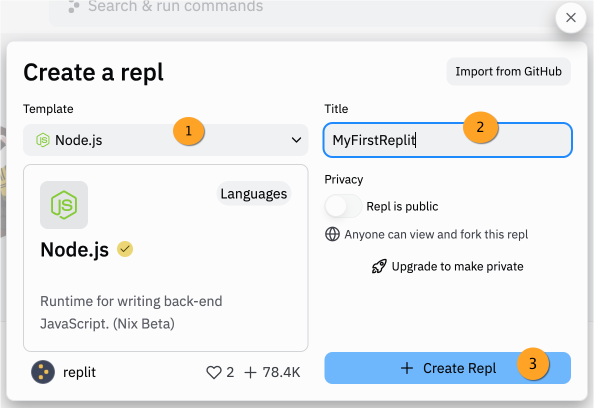
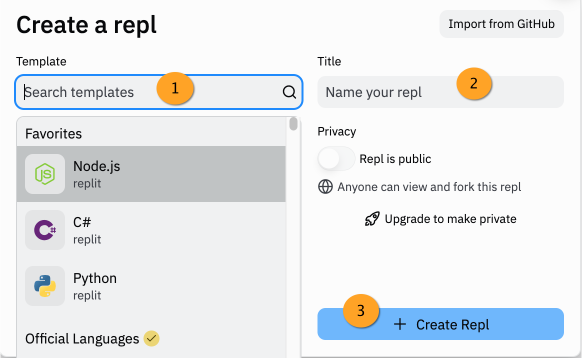
repl intro update

diff --git a/src/chapters/how-programs-work/hello-world.rst b/src/chapters/how-programs-work/hello-world.rst
@@ -15,6 +15,14 @@ single message is one of the simplest tasks a program can carry out.
 
 ``Hello, World`` will be your first program as well. Welcome to the club!
 
+
+.. admonition:: Note
+
+   Below is a guide to walk you through setting up a Replit account, 
+   creating a new repl, and working with repls made by other people.  
+   The images are there to help guide you, but Replit.com may update or change 
+   how it looks.  Don't hesitate to explore the site on your own.
+
 Create a Replit Account
 ------------------------
 
@@ -23,36 +31,34 @@ practice problems, exercises, studios, and assignments. If you have not already
 done so, create a new account with `Replit.com <https://repl.it/signup>`__. The
 site provides a free space to practice coding.
 
+
+After you have created your account, sign in.  
+You will see your **dashboard**, which displays any saved folders or projects. 
+Since you are just starting out, your dashboard will be empty.
+
 .. admonition:: Note
+  
+   If your dashboard is completely empty, click on the "Hamburger" button in the top left corner.
+   The three stacked horizontal lines.  
+   This will reveal a drop-down menu that allows you to create new repls, access your saved repls, etc.
 
-   Since the last updates to this text, the Replit.com website might have changed.  
-   The overall functionality should be the same, despite any changes in locations of buttons or menus.  
-
-.. figure:: figures/replit-sign-up.png
-   :alt: Replit sign-up screen
-
-After you sign in, you will see your *dashboard*, which displays any saved
-folders or projects. Since you are just starting out, your dashboard will be
-empty.
-
-.. figure:: figures/dashboard-replit.png
-   :alt: Replit dashboard
-
-Click on *+ Create* or any of the *+* buttons to begin a new project by using the "Create a repl" window.
- 
-
+Creating a New Repl
+^^^^^^^^^^^^^^^^^^^
+From your dashboard, click on *+ Create* or any of the *+* buttons to open the "Create a repl" window.
 
 .. figure:: figures/create-repl.png
    :alt: Replit new repl
 
-To Create a New Repl:
+Steps to create a new repl:
 
-#. You need to **select the coding language** you want to work with.  
-   Since this textbook teaches JavaScript, select "Node.js".
+#. You need to **select the coding language template** you want to work with.  
+   Select "Node.js" to code in JavaScript.   
 
-#. **Name your project** if a name has not already been provided.
+#. **Name your project** to help you remember what the repl contains. 
 
 #. **Click** "Create Repl".  
+
+These steps will create a blank repl workspace where you can start programming in JavaScript.
 
 The Replit Workspace
 ^^^^^^^^^^^^^^^^^^^^^
@@ -61,12 +67,12 @@ Before you dive into your ``Hello, World!`` program, let's take a look at how
 to use Replit. The workspace consists of three main panels and several menu
 functions.
 
-.. figure:: figures/replit-workspace.png
+.. figure:: figures/repl-workspace.png
    :alt: Replit code editor layout
 
 Features to note:
 
-#. **File panel and menus**: Allows you to add extensions, update settings, and
+#. **File panel and menus**: This allows you to add extensions, update settings, and
    add, open, or delete files.
 
 #. **Editor panel**: Your code goes here. Click on a file to open it in the
@@ -89,22 +95,26 @@ Features to note:
 Begin Your Coding Journey
 -------------------------
 
-Follow this `Hello World link <https://repl.it/@launchcode/HelloWorldJS>`__ to
-open a prepared workspace for your first program.
-
-This is a prepared repl.  You will not be allowed to code into it since you did not create it.
-In order to add your own code, you will need your own copy of this repl by **forking** it.
-A fork creates a copy in your repl account where you can add your own code without any risk of changing the original codebase.
+Working with a Prepared Repl
+^^^^^^^^^^^^^^^^^^^^^^^^^^^^
+We have prepared a repl for you.  
+You will not be allowed to code into it since you did not create it.
+To add your own code, you will need to **fork** it.
+Forking creates a copy of the original codebase into your repl account.  
+You can code in the forked project without risk of changing the original codebase.
 
 .. figure:: figures/fork-replit.png
    :alt: Replit fork option
 
+Follow this `Hello World link <https://repl.it/@launchcode/HelloWorldJS>`__ to
+open a prepared workspace for your first program.
 
-On line 2 of the editor, type:
+Your forked copy will open in your workspace. 
+On line 2 of the editor panel, type:
 
    ``console.log("Hello, World!");``
 
-When you finish typing, click the green "Run" button and observe the output.
+When you finish typing, click the green "Run" button and observe the output in the console panel.
 
 .. admonition:: Warning
 
